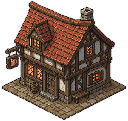
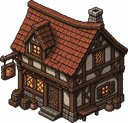
功能: W4 tavern(2×2)+麥酒資源接入,12 張建築 AoE2 濃度重生
tavern 吃穀物4產麥酒2(jobs3),demo 加酒館+民居+農場,存活回歸重校綠;
資料接線 Codex exec 實作,count 鎖測試同步。建築暗陶紅/舊木調與地面同調。
720 tests/typecheck/build/balance 全綠。

diff --git a/src/render/demoWorld.ts b/src/render/demoWorld.ts
@@ -28,10 +28,13 @@ const POPULATION_CONFIG = parsePopulationConfig(populationJson);
 const STARTING_BUILDINGS: ReadonlyArray<readonly [string, number, number]> = [
   ['house', 0, 2],
   ['house', 3, 2],
+  ['house', 6, 2],
   // 食物鏈依序放在伐木場之前：既有 jobs system 距離相同時按陣列序指派，六名居民會先填滿三段鏈。
   ['farm', 0, 4],
   ['mill', 2, 4],
   ['bakery', 4, 4],
+  ['farm', 6, 0],
+  ['tavern', 6, 4],
   ['lumber-camp', 2, 0],
 ];
 
@@ -45,20 +48,29 @@ const STARTING_CITIZENS: ReadonlyArray<readonly [string, number]> = [
   ['citizen#0-5', 1],
 ];
 
+function getStartingBuildingDef(type: string) {
+  const def = BUILDING_DEFS.find((candidate) => candidate.id === type);
+  if (def === undefined) throw new Error(`createDemoWorld: 找不到起始建築定義 "${type}"`);
+  return def;
+}
+
 /**
  * 從世界中心以 Chebyshev 環由內向外搜尋；每圈固定採上、右、下、左的順時針順序。
  * 所有候選都交給 core canBuildAt，故真實地形、near 條件、footprint 與邊界使用同一判準。
  */
 function findStartingAnchor(state: GameState): { x: number; y: number } {
-  const layoutWidth = Math.max(...STARTING_BUILDINGS.map(([, dx]) => dx + 1));
-  const layoutHeight = Math.max(...STARTING_BUILDINGS.map(([, , dy]) => dy + 1));
+  const layoutWidth = Math.max(
+    ...STARTING_BUILDINGS.map(([type, dx]) => dx + getStartingBuildingDef(type).size.w),
+  );
+  const layoutHeight = Math.max(
+    ...STARTING_BUILDINGS.map(([type, , dy]) => dy + getStartingBuildingDef(type).size.h),
+  );
   const centerX = Math.floor((state.worldSize - layoutWidth) / 2);
   const centerY = Math.floor((state.worldSize - layoutHeight) / 2);
 
   const fits = (x: number, y: number): boolean =>
     STARTING_BUILDINGS.every(([type, dx, dy]) => {
-      const def = BUILDING_DEFS.find((candidate) => candidate.id === type);
-      if (def === undefined) throw new Error(`createDemoWorld: 找不到起始建築定義 "${type}"`);
+      const def = getStartingBuildingDef(type);
       return canBuildAt(state, def, x + dx, y + dy, BUILDING_DEFS);
     });
 
@@ -134,8 +146,12 @@ export function createDemoWorld(worldSize?: number): DemoWorld {
     state,
     sim,
     startCenter: {
-      x: anchor.x + (Math.max(...STARTING_BUILDINGS.map(([, dx]) => dx)) + 1) / 2,
-      y: anchor.y + (Math.max(...STARTING_BUILDINGS.map(([, , dy]) => dy)) + 1) / 2,
+      x:
+        anchor.x +
+        Math.max(...STARTING_BUILDINGS.map(([type, dx]) => dx + getStartingBuildingDef(type).size.w)) / 2,
+      y:
+        anchor.y +
+        Math.max(...STARTING_BUILDINGS.map(([type, , dy]) => dy + getStartingBuildingDef(type).size.h)) / 2,
     },
   };
 }

diff --git a/tests/data/production-chain.test.ts b/tests/data/production-chain.test.ts
@@ -37,19 +37,31 @@ function defsById(defs: BuildingDefWithInputs[]): Map<string, BuildingDefWithInp
 // ── R3：資源表擴充 ────────────────────────────────────────────────────────────
 
 describe('data/resources.json 擴充加工鏈資源（R3）', () => {
-  it('經 parseResourceDefs 驗證通過，含既有 4 種＋新增 6 種共 10 種', () => {
+  it('經 parseResourceDefs 驗證通過，含既有 4 種＋加工鏈 6 種＋ale（W4 酒館）共 11 種', () => {
     const resources = parseResourceDefs(resourcesJson);
-    expect(resources).toHaveLength(10);
+    expect(resources).toHaveLength(11);
     const ids = resources.map((r) => r.id);
-    expect(ids).toEqual(expect.arrayContaining(['wood', 'stone', 'food', 'gold', ...NEW_RESOURCE_IDS]));
+    expect(ids).toEqual(
+      expect.arrayContaining(['wood', 'stone', 'food', 'gold', 'ale', ...NEW_RESOURCE_IDS]),
+    );
   });
 });
 
 // ── R4：建築表擴充 ────────────────────────────────────────────────────────────
 
 describe('data/buildings.json 擴充加工鏈建築（R4）', () => {
-  it('經 parseBuildingDefs 驗證通過，共 11 棟（W1 十棟＋W2 市場）', () => {
-    expect(realDefs()).toHaveLength(11);
+  it('經 parseBuildingDefs 驗證通過，共 12 棟（W1 十棟＋W2 市場＋W4 酒館）', () => {
+    expect(realDefs()).toHaveLength(12);
+  });
+
+  it('tavern：2×2、jobs3、production ale2、inputs grain4、cost、terrain on grass（AoE2 美術 W4）', () => {
+    const tavern = defsById(realDefs()).get('tavern')!;
+    expect(tavern.size).toEqual({ w: 2, h: 2 });
+    expect(tavern.jobs).toBe(3);
+    expect(tavern.production).toEqual({ ale: 2 });
+    expect(tavern.inputs).toEqual({ grain: 4 });
+    expect(tavern.cost).toEqual({ wood: 60, stone: 30, gold: 40 });
+    expect(tavern.terrain).toEqual({ on: ['grass'] });
   });
 
   it('farm 改為產出 grain 4（原 food 3），jobs/cost/terrain 不變', () => {

diff --git a/PROGRESS.md b/PROGRESS.md
@@ -17,6 +17,18 @@ W4 日夜視覺）→ M6 道路與城市規劃（完整設計已在
 
 ## 已完成
 
+- [2026-08-25] **AoE2 美術 W4 大建築與 tavern**（typecheck/720 tests/build 全綠，
+  `npm run balance` 目標帶斷言通過）。render 端 `buildingAnchor` 加 w/h（footprint 水平
+  中心＋前緣格底頂點，1×1 逐字回歸；進度條/高度取格同步；新增 placement.test.ts 8 案）。
+  新資源 **ale（麥酒，basePrice 8）**＋首個 2×2 建築 **tavern（酒館）**：吃穀物 4 產麥酒 2、
+  jobs 3、cost 木60/石30/金40——給穀物過剩（30 天 8650）一個加工出口；HUD/市場迭代
+  RESOURCE_DEFS 自動顯示，零 UI 改動。demo 世界加 tavern＋第三棟 house＋第二座 farm，
+  存活回歸鎖重校全綠。素材：12 張建築 AoE2 濃度重生（10 主要建築＋tavern 128 寬無底座
+  ＋mine），暗陶紅屋頂/舊木灰泥牆，與 W1 地面同調。資料接線由 Codex exec 實作
+  （count 鎖測試更新由主對話補）。**搬運新坑**：$imagegen 批量的生成順序會偏離清單順序
+  （10 張中 6 張錯位），搬運後必須逐張目視對名再落檔。
+  剩餘素材債：house-02/03、farm-02 變體仍是舊亮色調（渲染層未使用，暫不重生）；
+  wall-01/watchtower-01 無對應建築。
 - [2026-08-25] **AoE2 美術 W3 斜坡裙邊＋過渡 tile 色調債清償**（711 tests/typecheck/build/
   seams=0 全綠）。裙邊由 dirt+tint 垂直土壁換成 `tile-slope-01` 坡面 tile：疊層機制不變，
   **單張左亮右暗坡面等效雙方位素材**（每層只露下緣兩條邊帶，bl 帶取受光半、br 帶取背光半），
@@ -372,9 +384,7 @@ W4 日夜視覺）→ M6 道路與城市規劃（完整設計已在
   - ~~W2 變體混鋪＋裝飾散佈~~ 已完成（2026-08-25，見已完成區；decor 烘進 chunk RT
     而非獨立 DecorRenderer——靜態決定論隨 chunk 快取零每幀成本）。
   - ~~W3 斜坡~~ 已完成（2026-08-25，見已完成區；單張雙光影坡面取代四方位，STEP 維持 8）。
-  - **W4 大建築與建築濃度**：render 支援 2×2 建築（`placement.ts` 的 w/h 參數已有雛形、
-    `buildingSize` 已存在）；tavern（128 寬素材已在）接入；主要建築以 AoE2 濃度重生 1-2 輪
-    （更多細節、更深色調），走 `{raw,out}` 映射落到現用 key。驗收：實機截圖對比。
+  - ~~W4 大建築與建築濃度~~ 已完成（2026-08-25，見已完成區；tavern=穀物→麥酒生產型）。
   - **W5 色調統一收尾**：全畫面色調微調（暗角/飽和度，可與 M5-W4 的日夜濾鏡同一個
     shader 接入點一起做）；全套「改造前 vs 後」對比圖交使用者驗收。
   - 註：批次 2b（山體疊加 sprite）視 W3 斜坡完成後的畫面再議；
